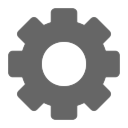
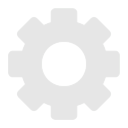
Blushup setting button on message view.

diff --git a/public/css/app.css b/public/css/app.css
@@ -189,12 +189,11 @@ button {
 		margin: 5px;
 		padding: 3px;
 		border-radius: 5px;
-		background-color: #CCC;
+		background-color: #88A;
 		transition: all 0.3s ease;
 	}
 	.messageSettingButton:HOVER {
-		opacity: 0.5;
-		background-color: #999;
+		background-color: #336;
 		cursor: pointer;
 	}
 	#messageChannelsArea {
